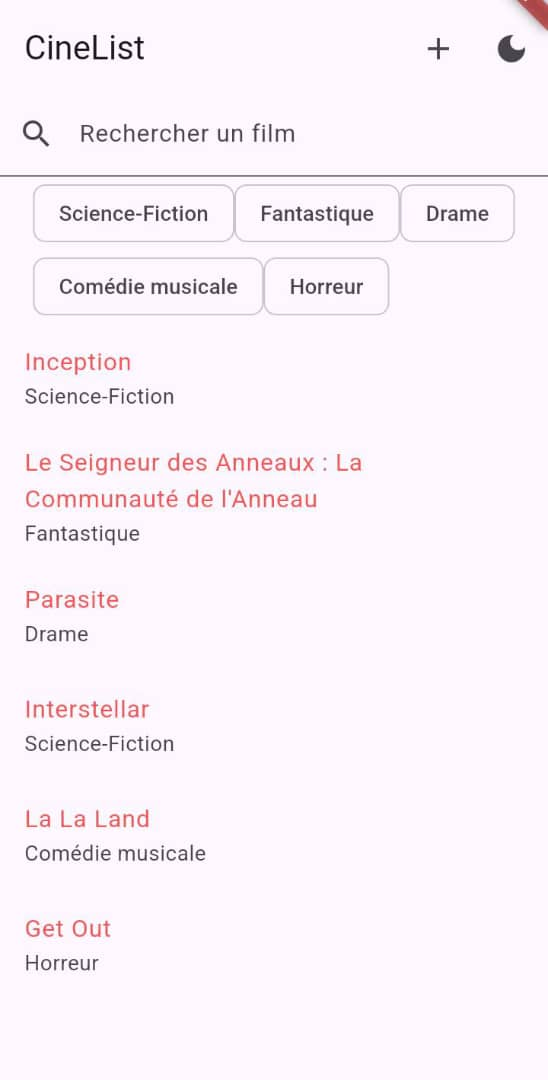
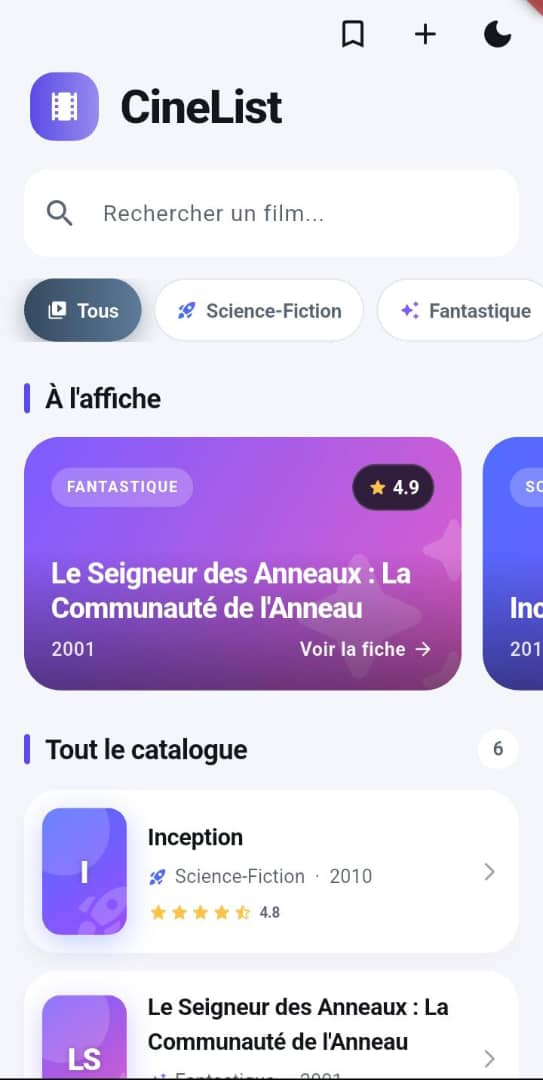
Captures d'écran à jour avec la nouvelle interface
Remplace les captures de l'ancienne interface et ajoute l'écran de
formulaire. Le README renvoie désormais vers quatre captures : accueil en
thème clair et sombre, détail d'un film, formulaire d'ajout.

diff --git a/README.md b/README.md
@@ -24,9 +24,13 @@ Projet réalisé dans le cadre de l'exercice **« App multi-écrans avec navigat
 
 ## 📱 Captures d'écran
 
-| Accueil (thème clair) | Accueil (thème sombre) | Détail d'un film |
-| :---: | :---: | :---: |
-| ![Accueil en thème clair](screenshots/home_light.png) | ![Accueil en thème sombre](screenshots/home_dark.jpeg) | ![Écran de détail](screenshots/detail.jpeg) |
+| Accueil (thème clair) | Accueil (thème sombre) |
+| :---: | :---: |
+| ![Accueil en thème clair](screenshots/home_light.png) | ![Accueil en thème sombre](screenshots/home_dark.png) |
+
+| Détail d'un film | Formulaire d'ajout |
+| :---: | :---: |
+| ![Écran de détail](screenshots/details.png) | ![Formulaire d'ajout](screenshots/formulaire.png) |
 
 ---
 
